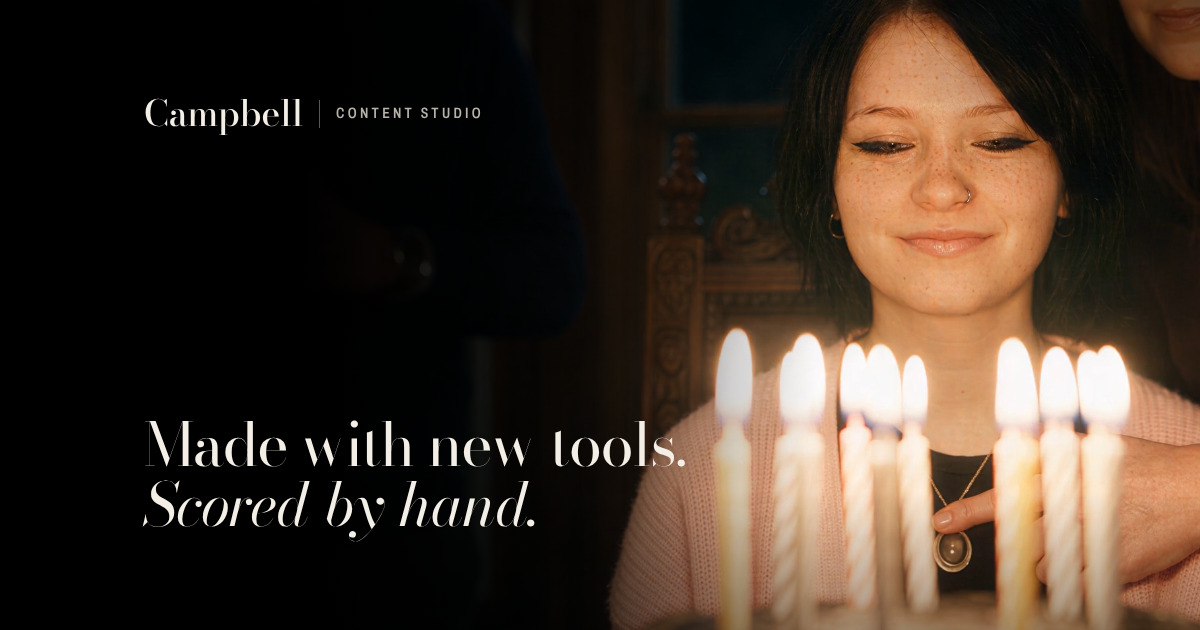
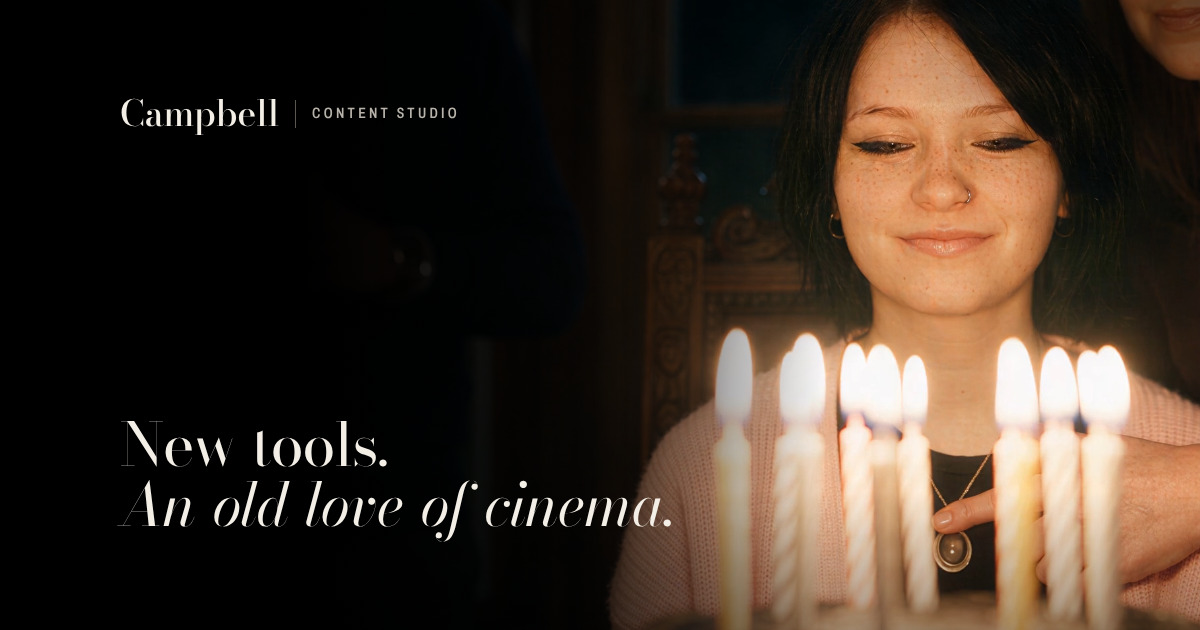
Hero headline: "New tools. An old love of cinema."
Update the page title, search description and share card text to match,
and re-render the share card image with the new headline. Privacy and
Terms change only in the share image's alt text.

Claude-Session: https://claude.ai/code/session_01R6VjnBochWj7p9sUY3uLKs

Changed region(s): [[0.0925, 0.5127, 0.6475, 0.9651], [0.0925, 0.1508, 0.4008, 0.2111]]

diff --git a/preview/index.html b/preview/index.html
@@ -6,29 +6,29 @@
 <!-- PREVIEW-ONLY -->
 <meta name="robots" content="noindex, nofollow">
 <!-- /PREVIEW-ONLY -->
-<title>Campbell Content Studio | Cinematic AI Films, Scored by Hand</title>
-<meta name="description" content="Campbell Content Studio is an independent AI film studio in Ontario, Canada, making cinematic short films with original scores, and music videos.">
+<title>Campbell Content Studio | New tools. An old love of cinema.</title>
+<meta name="description" content="New tools. An old love of cinema. Campbell Content Studio makes cinematic AI short films with original scores, and music videos, in Ontario, Canada.">
 <link rel="canonical" href="https://campbellcontentstudio.ca/">
 <meta name="theme-color" content="#000000">
 <meta name="color-scheme" content="dark">
 
 <meta property="og:type" content="website">
 <meta property="og:site_name" content="Campbell Content Studio">
-<meta property="og:title" content="Campbell Content Studio | Cinematic AI Films, Scored by Hand">
-<meta property="og:description" content="Cinematic AI short films and music videos from an independent studio in Ontario, Canada. Made with new tools. Scored by hand.">
+<meta property="og:title" content="Campbell Content Studio | New tools. An old love of cinema.">
+<meta property="og:description" content="Cinematic AI short films and music videos from an independent studio in Ontario, Canada. New tools. An old love of cinema.">
 <meta property="og:url" content="https://campbellcontentstudio.ca/">
 <meta property="og:image" content="https://campbellcontentstudio.ca/assets/img/og-image.jpg">
 <meta property="og:image:type" content="image/jpeg">
 <meta property="og:image:width" content="1200">
 <meta property="og:image:height" content="630">
-<meta property="og:image:alt" content="Campbell Content Studio: Made with new tools. Scored by hand. Rowan smiles with her eyes closed over lit birthday candles.">
+<meta property="og:image:alt" content="Campbell Content Studio: New tools. An old love of cinema. Rowan smiles with her eyes closed over lit birthday candles.">
 <meta property="og:locale" content="en_CA">
 <meta name="twitter:card" content="summary_large_image">
 <meta name="twitter:site" content="@ACampbellCinema">
-<meta name="twitter:title" content="Campbell Content Studio | Cinematic AI Films, Scored by Hand">
-<meta name="twitter:description" content="Cinematic AI short films and music videos from an independent studio in Ontario, Canada. Made with new tools. Scored by hand.">
+<meta name="twitter:title" content="Campbell Content Studio | New tools. An old love of cinema.">
+<meta name="twitter:description" content="Cinematic AI short films and music videos from an independent studio in Ontario, Canada. New tools. An old love of cinema.">
 <meta name="twitter:image" content="https://campbellcontentstudio.ca/assets/img/og-image.jpg">
-<meta name="twitter:image:alt" content="Campbell Content Studio: Made with new tools. Scored by hand. Rowan smiles with her eyes closed over lit birthday candles.">
+<meta name="twitter:image:alt" content="Campbell Content Studio: New tools. An old love of cinema. Rowan smiles with her eyes closed over lit birthday candles.">
 
 <link rel="icon" href="favicon.ico" sizes="48x48">
 <link rel="icon" href="favicon.svg" type="image/svg+xml">
@@ -190,7 +190,7 @@
     <!-- ================= HERO ================= -->
     <section class="hero" id="top" aria-labelledby="hero-title">
       <div class="wrap grid hero-lockup">
-        <h1 id="hero-title" class="display">Made with new tools. <em>Scored by hand.</em></h1>
+        <h1 id="hero-title" class="display">New tools. <em>An old love of cinema.</em></h1>
         <div class="hero-side">
           <p>An independent film studio in Ontario, Canada, making cinematic AI short films with original scores, and music videos.</p>
           <div class="ctas">

diff --git a/preview/privacy.html b/preview/privacy.html
@@ -19,7 +19,7 @@
 <meta property="og:image" content="https://campbellcontentstudio.ca/assets/img/og-image.jpg">
 <meta property="og:image:width" content="1200">
 <meta property="og:image:height" content="630">
-<meta property="og:image:alt" content="Campbell Content Studio: Made with new tools. Scored by hand. Rowan smiles with her eyes closed over lit birthday candles.">
+<meta property="og:image:alt" content="Campbell Content Studio: New tools. An old love of cinema. Rowan smiles with her eyes closed over lit birthday candles.">
 <meta property="og:locale" content="en_CA">
 <meta name="twitter:card" content="summary_large_image">
 <meta name="twitter:site" content="@ACampbellCinema">

diff --git a/preview/terms.html b/preview/terms.html
@@ -19,7 +19,7 @@
 <meta property="og:image" content="https://campbellcontentstudio.ca/assets/img/og-image.jpg">
 <meta property="og:image:width" content="1200">
 <meta property="og:image:height" content="630">
-<meta property="og:image:alt" content="Campbell Content Studio: Made with new tools. Scored by hand. Rowan smiles with her eyes closed over lit birthday candles.">
+<meta property="og:image:alt" content="Campbell Content Studio: New tools. An old love of cinema. Rowan smiles with her eyes closed over lit birthday candles.">
 <meta property="og:locale" content="en_CA">
 <meta name="twitter:card" content="summary_large_image">
 <meta name="twitter:site" content="@ACampbellCinema">
